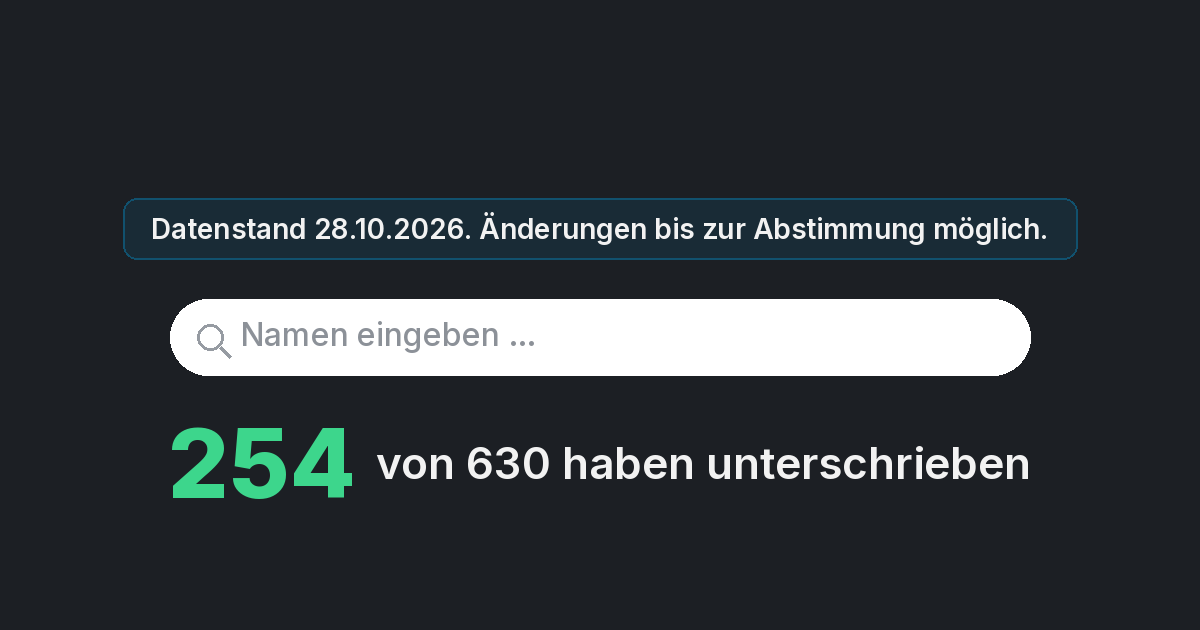
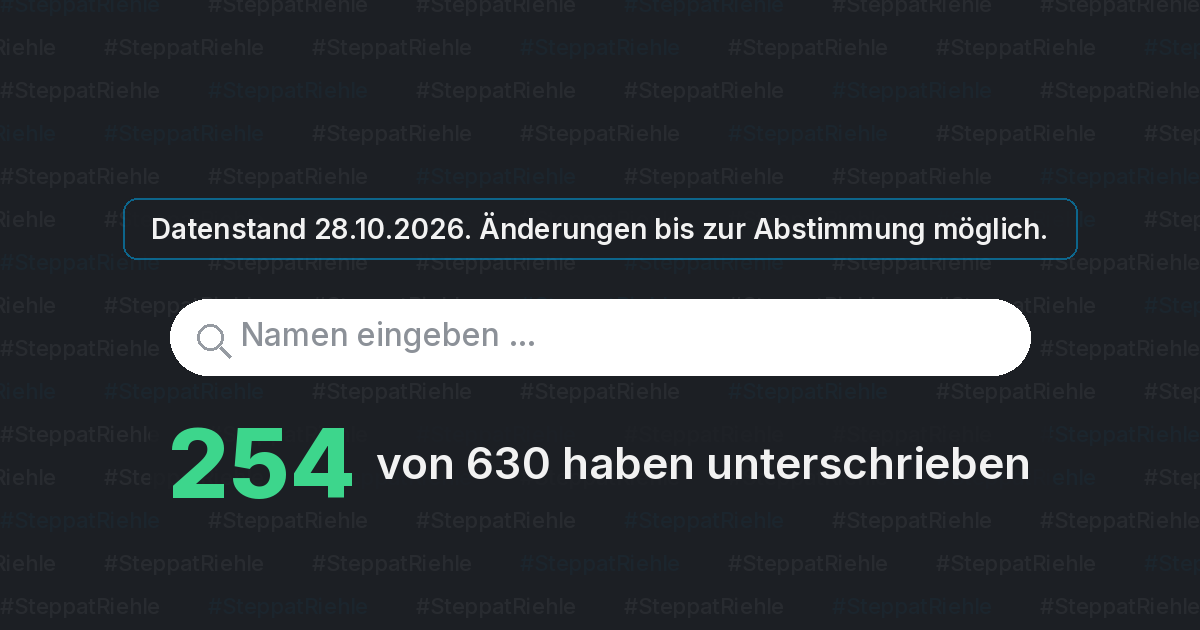
Karte mit #SteppatRiehle-Muster

Changed region(s): [[0.1233, 0.3921, 0.8942, 0.4222], [0.1233, 0.3016, 0.8942, 0.3317]]

diff --git a/check/index.html b/check/index.html
@@ -7,12 +7,12 @@
 <meta name="description" content="254 von 630 Abgeordneten haben den Gesetzentwurf zur Widerspruchslösung (Drs. 21/7570) unterschrieben. Wer? Einen Namen eingeben und sofort sehen."/>
 <meta property="og:title" content="Abgeordneten-Check Organspende"/>
 <meta property="og:description" content="254 von 630 Abgeordneten haben den Gesetzentwurf zur Widerspruchslösung (Drs. 21/7570) unterschrieben. Wer? Einen Namen eingeben und sofort sehen."/>
-<meta property="og:image" content="https://franksteppat.github.io/organspende/check/karte.png"/>
+<meta property="og:image" content="https://franksteppat.github.io/organspende/check/karte.png?v=2"/>
 <meta property="og:url" content="https://franksteppat.github.io/organspende/check/"/>
 <meta name="twitter:card" content="summary_large_image"/>
 <meta name="twitter:title" content="Abgeordneten-Check Organspende"/>
 <meta name="twitter:description" content="254 von 630 Abgeordneten haben den Gesetzentwurf zur Widerspruchslösung (Drs. 21/7570) unterschrieben. Wer? Einen Namen eingeben und sofort sehen."/>
-<meta name="twitter:image" content="https://franksteppat.github.io/organspende/check/karte.png"/>
+<meta name="twitter:image" content="https://franksteppat.github.io/organspende/check/karte.png?v=2"/>
 <style>
 :root {
   --bg: #1C1F24;
